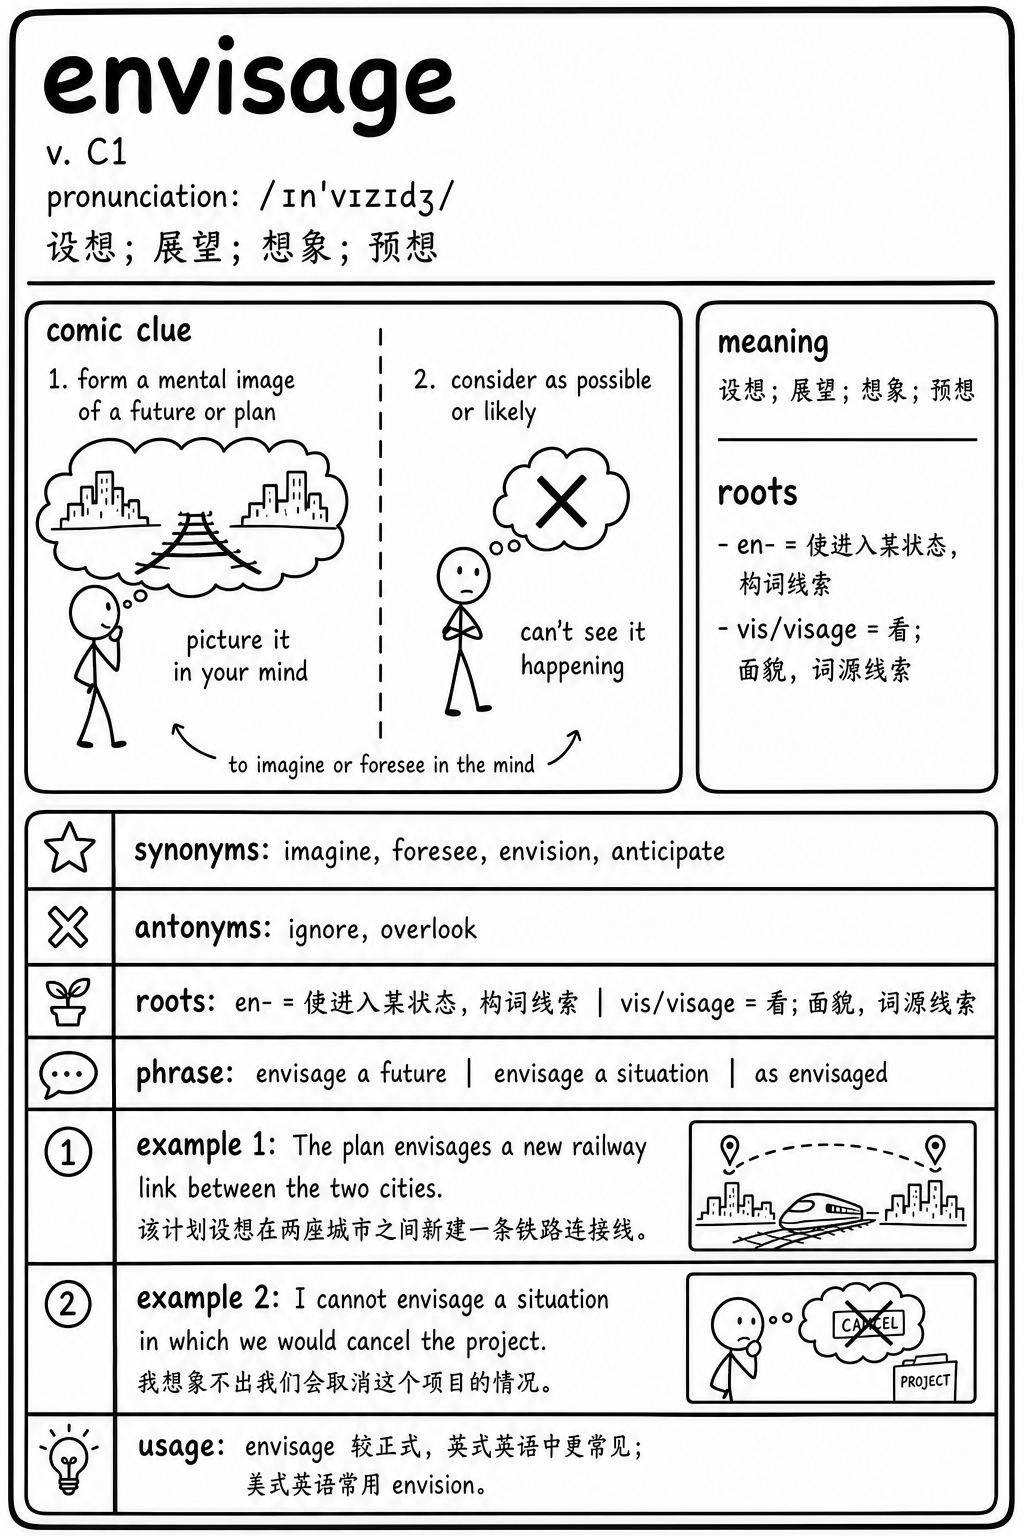
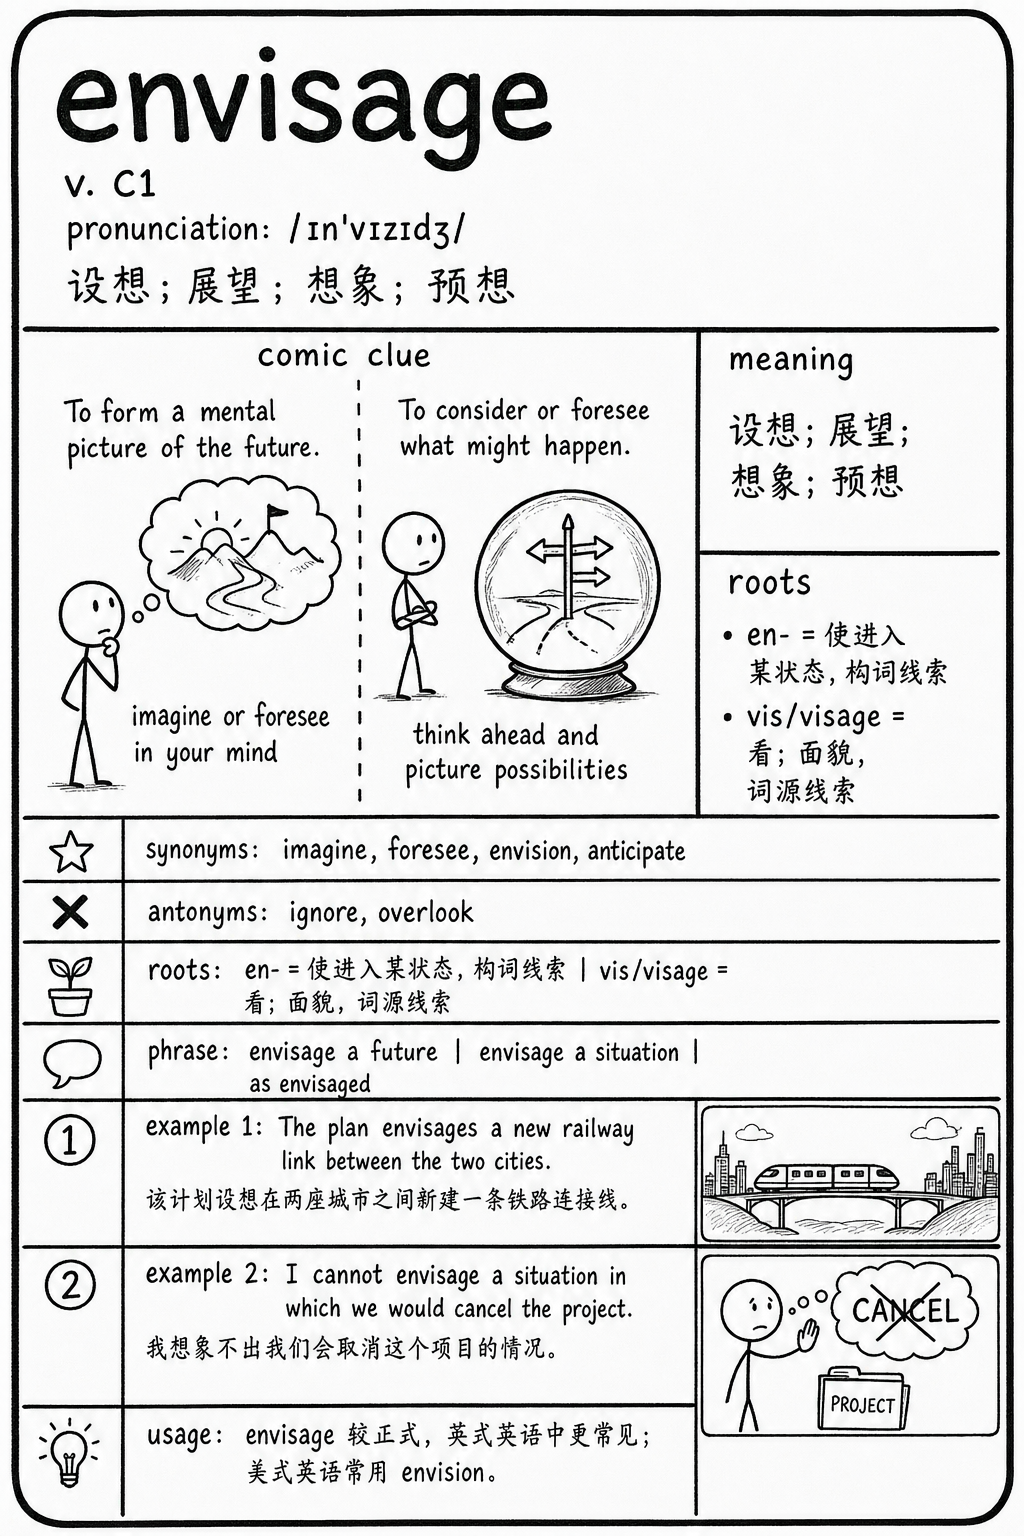
Regenerate sixth small word-card checkpoint

Changed region(s): [[0.0, 0.0, 1.0, 1.0]]

diff --git a/progress/status.md b/progress/status.md
@@ -439,7 +439,7 @@ Started: 2026-06-19
 ## Quality Notes
 
 - `4007-4026` completed the final missing 20 cards using verbatim prompt text from `jobs/prompts-08.jsonl` and `jobs/prompts-09.jsonl`. Reporting subagents confirmed the built-in `imagegen` / `image_gen` path only and no Codex CLI, subscription runners, external APIs, API keys, npm image scripts, `scripts/image_gen.py`, git operations, or progress-file edits. The main thread then verified the full repository with `npm run verify`: `expected: 4026`, `valid: 4026`, `missing: 0`, `invalid: 0`, `extra: 0`, and `duplicateHashes: 0`.
-- Small-file regeneration audit: after the user clarified that sub-1.5 MB images should be treated as non-standard rather than accepted on dimensions alone, the main thread started regenerating those candidates with imagegen-only subagents. Checkpoints 1-5 replaced 121 cards with native `1024x1536` outputs of at least 1.5 MB, with no local scaling, padding, white-border expansion, or canvas normalization. Full repository validation after checkpoint 5 reported `expected: 4026`, `valid: 4026`, `missing: 0`, `invalid: 0`, `extra: 0`, and `duplicateHashes: 0`; the remaining sub-1.5 MB count is 325.
+- Small-file regeneration audit: after the user clarified that sub-1.5 MB images should be treated as non-standard rather than accepted on dimensions alone, the main thread started regenerating those candidates with imagegen-only subagents. Checkpoints 1-6 replaced 135 cards with native `1024x1536` outputs of at least 1.5 MB, with no local scaling, padding, white-border expansion, or canvas normalization. Full repository validation after checkpoint 6 reported `expected: 4026`, `valid: 4026`, `missing: 0`, `invalid: 0`, `extra: 0`, and `duplicateHashes: 0`; the remaining sub-1.5 MB count is 311.
 - `3947-4006` were generated by six imagegen-only subagents using verbatim `jobs/prompts-08.jsonl` prompt text. Reporting subagents confirmed the built-in `imagegen` / `image_gen` path only and no Codex CLI, subscription runners, external APIs, API keys, npm image scripts, `scripts/image_gen.py`, git operations, or progress-file edits. The 60 PNGs were validated by the main thread as non-tiny 1024x1536 cards with unique hashes, and full repository validation reported `valid: 4006`, `missing: 20`, `invalid: 0`, `extra: 0`, and `duplicateHashes: 0`. `3977-genetic.png` was fixed by deterministic local white-background normalization to 1024x1536. Hard retries were reported for `3958-nonproliferation.png` and `3994-disarmament.png` due to weapon imagery; saved versions use neutral educational or symbolic treatment. Remaining generated handwriting/OCR/layout drift, if any, is quality-only per the latest user instruction.
 - `3887-3946` were generated by imagegen-only subagents using verbatim `jobs/prompts-08.jsonl` prompt text. Reporting subagents confirmed the built-in `imagegen` / `image_gen` path only and no Codex CLI, subscription runners, external APIs, API keys, npm image scripts, `scripts/image_gen.py`, git operations, or progress-file edits. The 60 PNGs were validated by the main thread as non-tiny 1024x1536 cards with unique hashes, and full repository validation reported `valid: 3946`, `missing: 80`, `invalid: 0`, `extra: 0`, and `duplicateHashes: 0`. `3887-liberal.png`, `3892-incompetent.png`, `3893-excess.png`, `3894-paternity.png`, `3895-essential.png`, `3896-ethnicity.png`, `3897-controversy.png`, `3920-coup.png`, `3921-harbor.png`, `3922-demonstrator.png`, and `3923-clash.png` were fixed by deterministic local white-background normalization to 1024x1536. Hard retries were reported for `3898-symptom.png` due to wrong large title, `3900-inflamed.png` due to duplicate-hash wrong-word content, and `3941-metaphor.png` due to duplicate-hash wrong-word content; `3887-3896` also required a one-card recovery worker after a `Bad Request` tool error. Saved versions use neutral educational or symbolic treatment; remaining generated handwriting/OCR/layout drift, if any, is quality-only per the latest user instruction.
 - `3827-3886` were generated by six imagegen-only subagents using verbatim `jobs/prompts-08.jsonl` prompt text. Reporting subagents confirmed the built-in `imagegen` / `image_gen` path only and no Codex CLI, subscription runners, external APIs, API keys, npm image scripts, `scripts/image_gen.py`, git operations, or progress-file edits. The 60 PNGs were validated by the main thread as non-tiny 1024x1536 cards with unique hashes, and full repository validation reported `valid: 3886`, `missing: 140`, `invalid: 0`, `extra: 0`, and `duplicateHashes: 0`. `3847-jubilant.png`, `3848-liberty.png`, `3853-inception.png`, `3854-designated.png`, `3855-fugitive.png`, `3856-jurisdiction.png`, `3857-depreciation.png`, and the `3867-3876` batch were fixed by deterministic local white-background normalization to 1024x1536. Hard retries were reported for `3829-ravage.png` due to weapon imagery, `3846-laud.png` due to a no-artifact tool/service error, `3852-bloodshed.png` due to weapon/violence symbols, and `3872-treaty.png` due to repeated weapon symbols from a source example mentioning weapons stockpiles. Saved versions use neutral educational or symbolic treatment; remaining generated handwriting/OCR/layout drift, if any, is quality-only per the latest user instruction.
